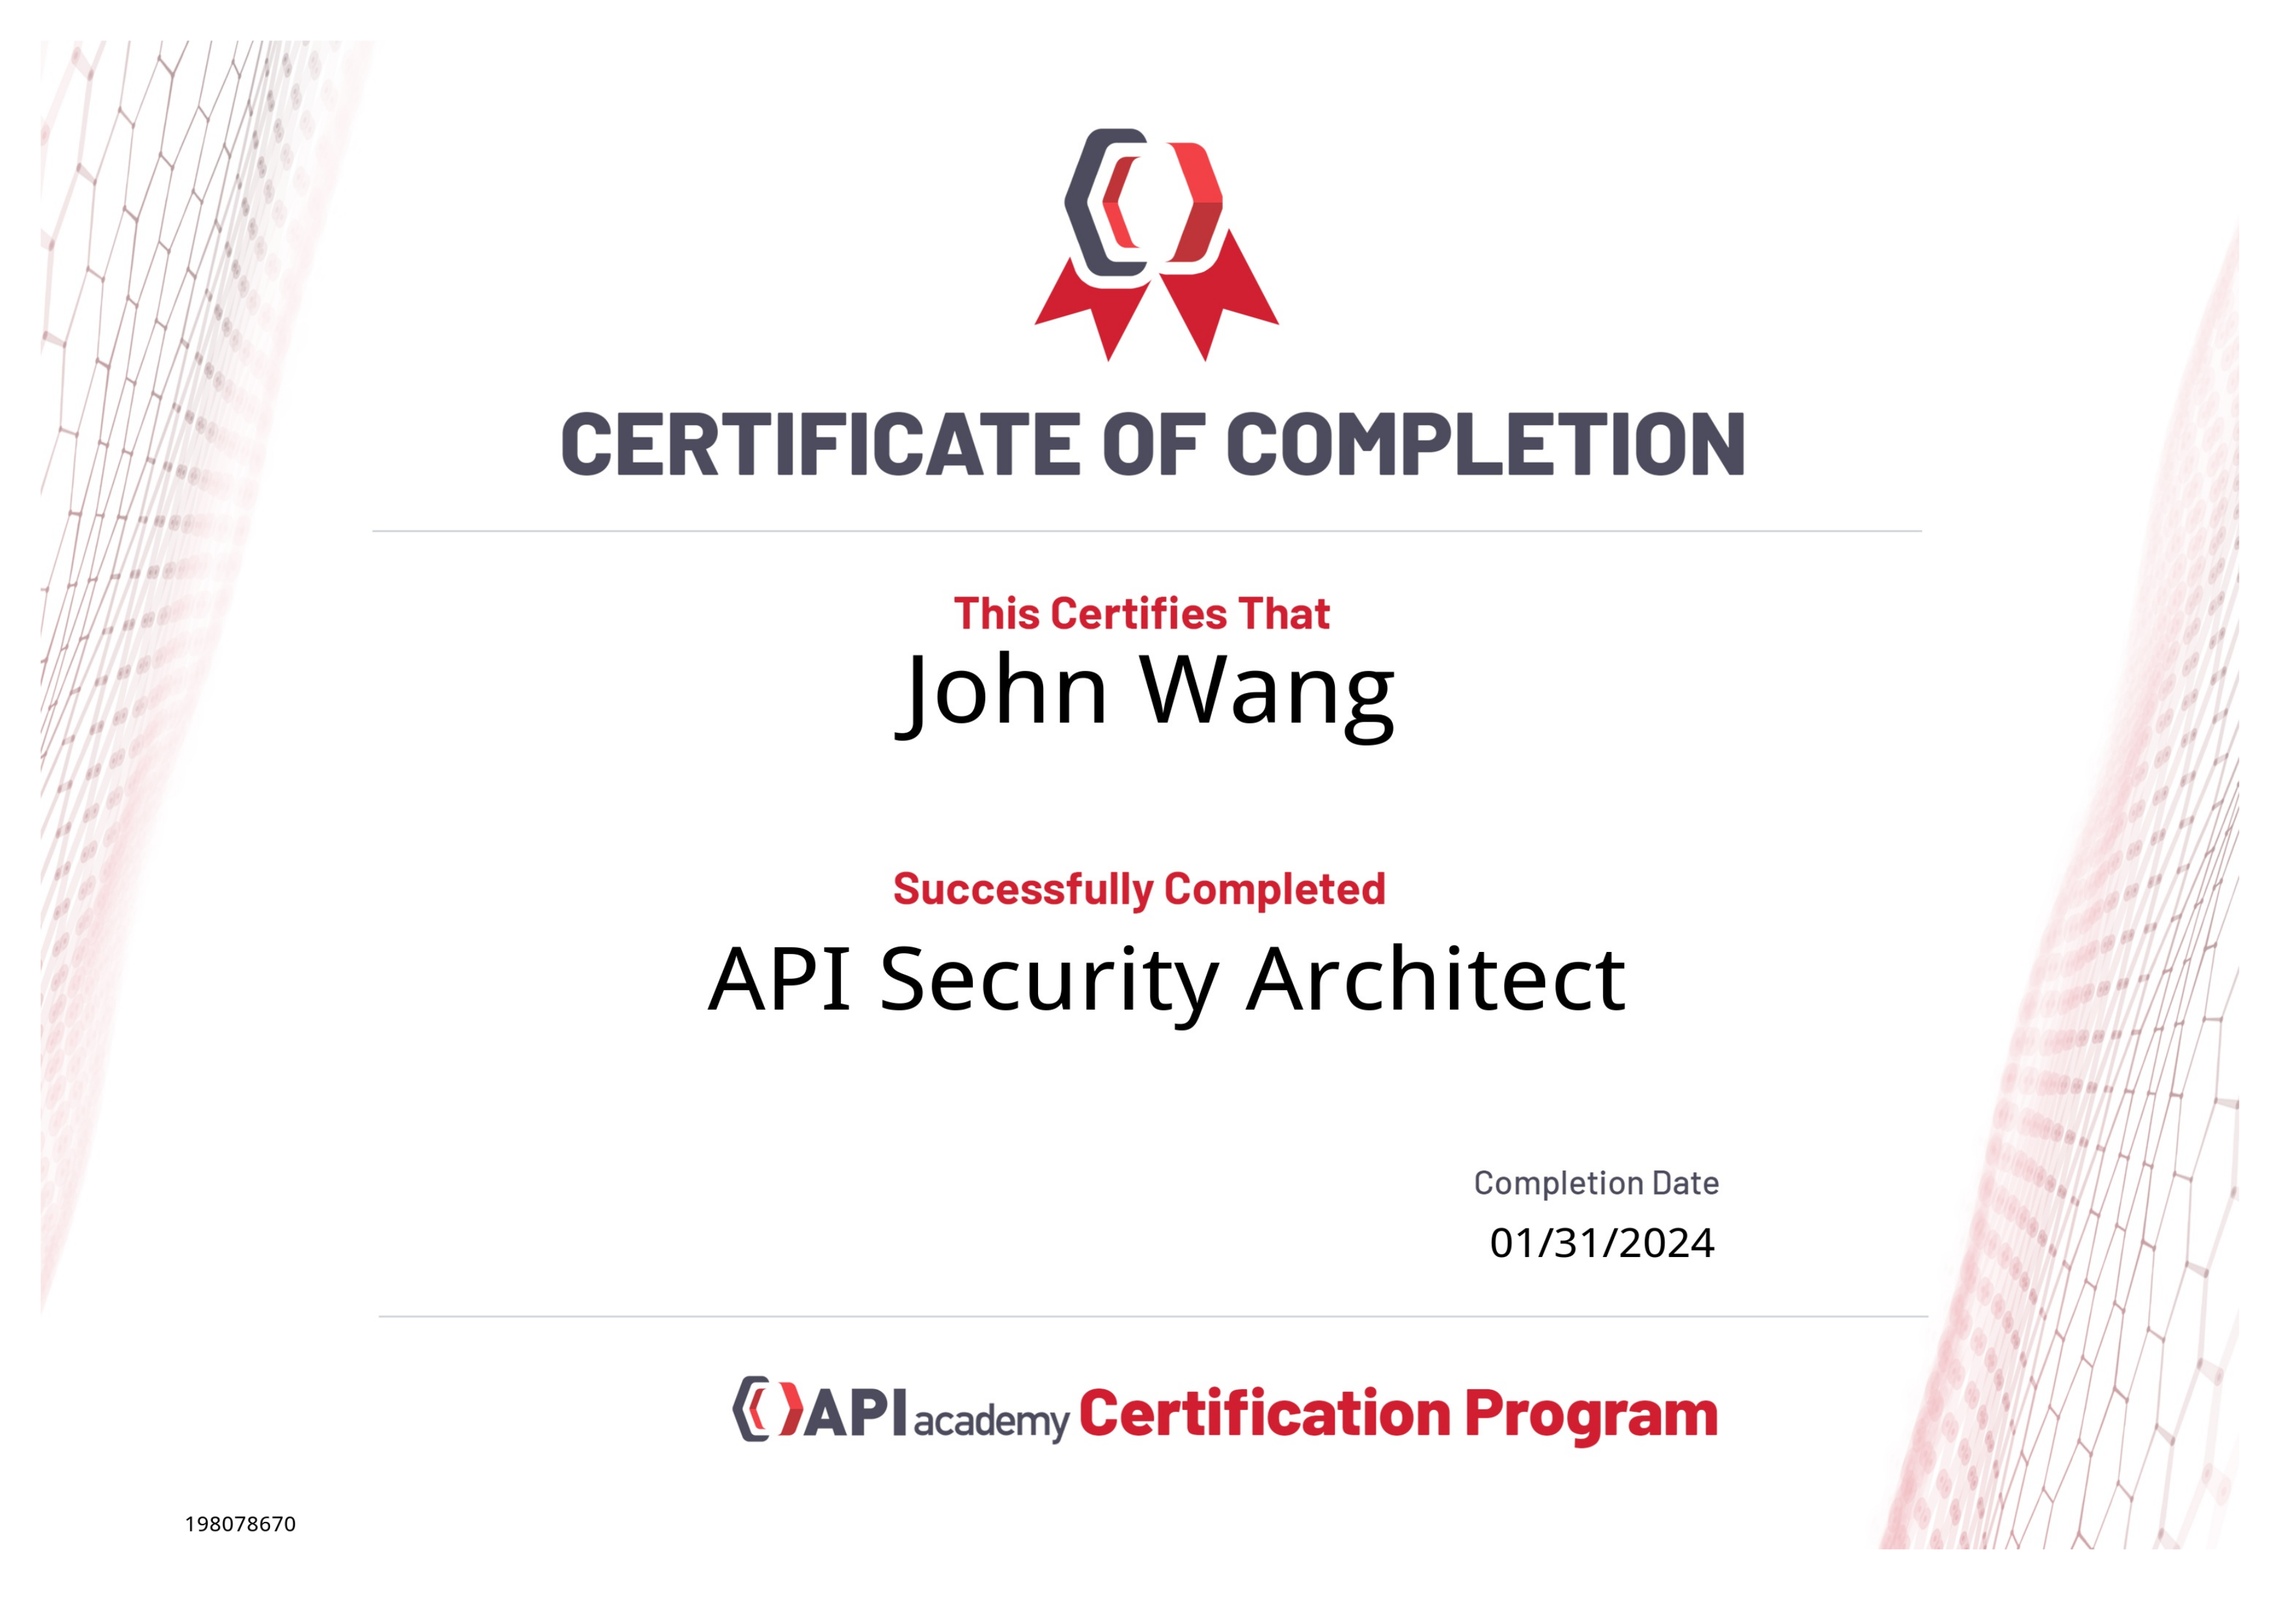
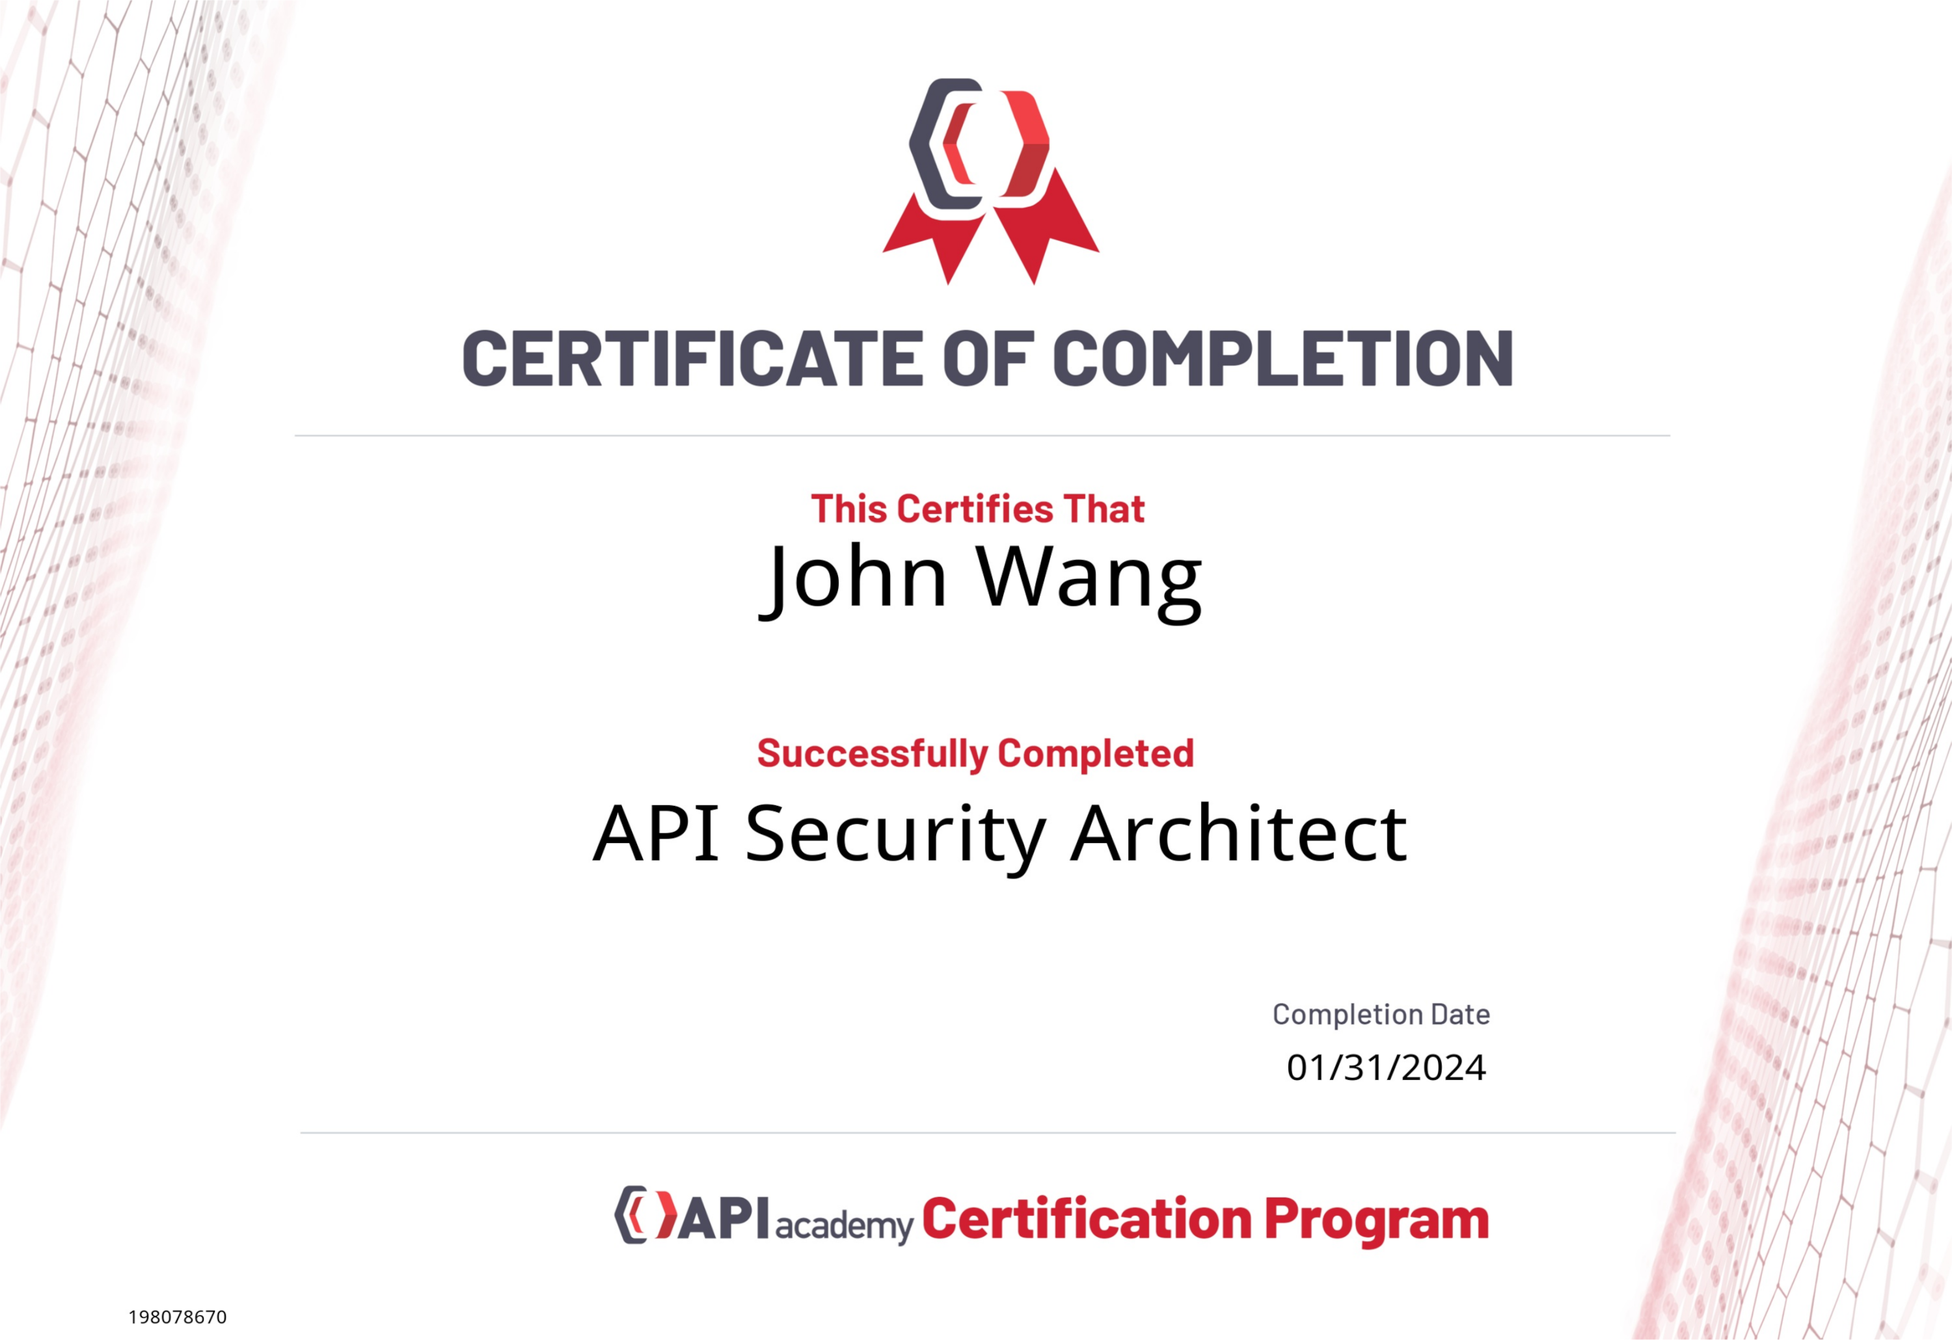
data: `src/certificates`: remove padding

diff --git a/docs/index.html b/docs/index.html
@@ -205,5 +205,5 @@
 
 <!--
 MkDocs version : 1.3.0
-Build Date UTC : 2024-07-27 07:40:55.565243+00:00
+Build Date UTC : 2024-07-27 08:54:42.827276+00:00
 -->
